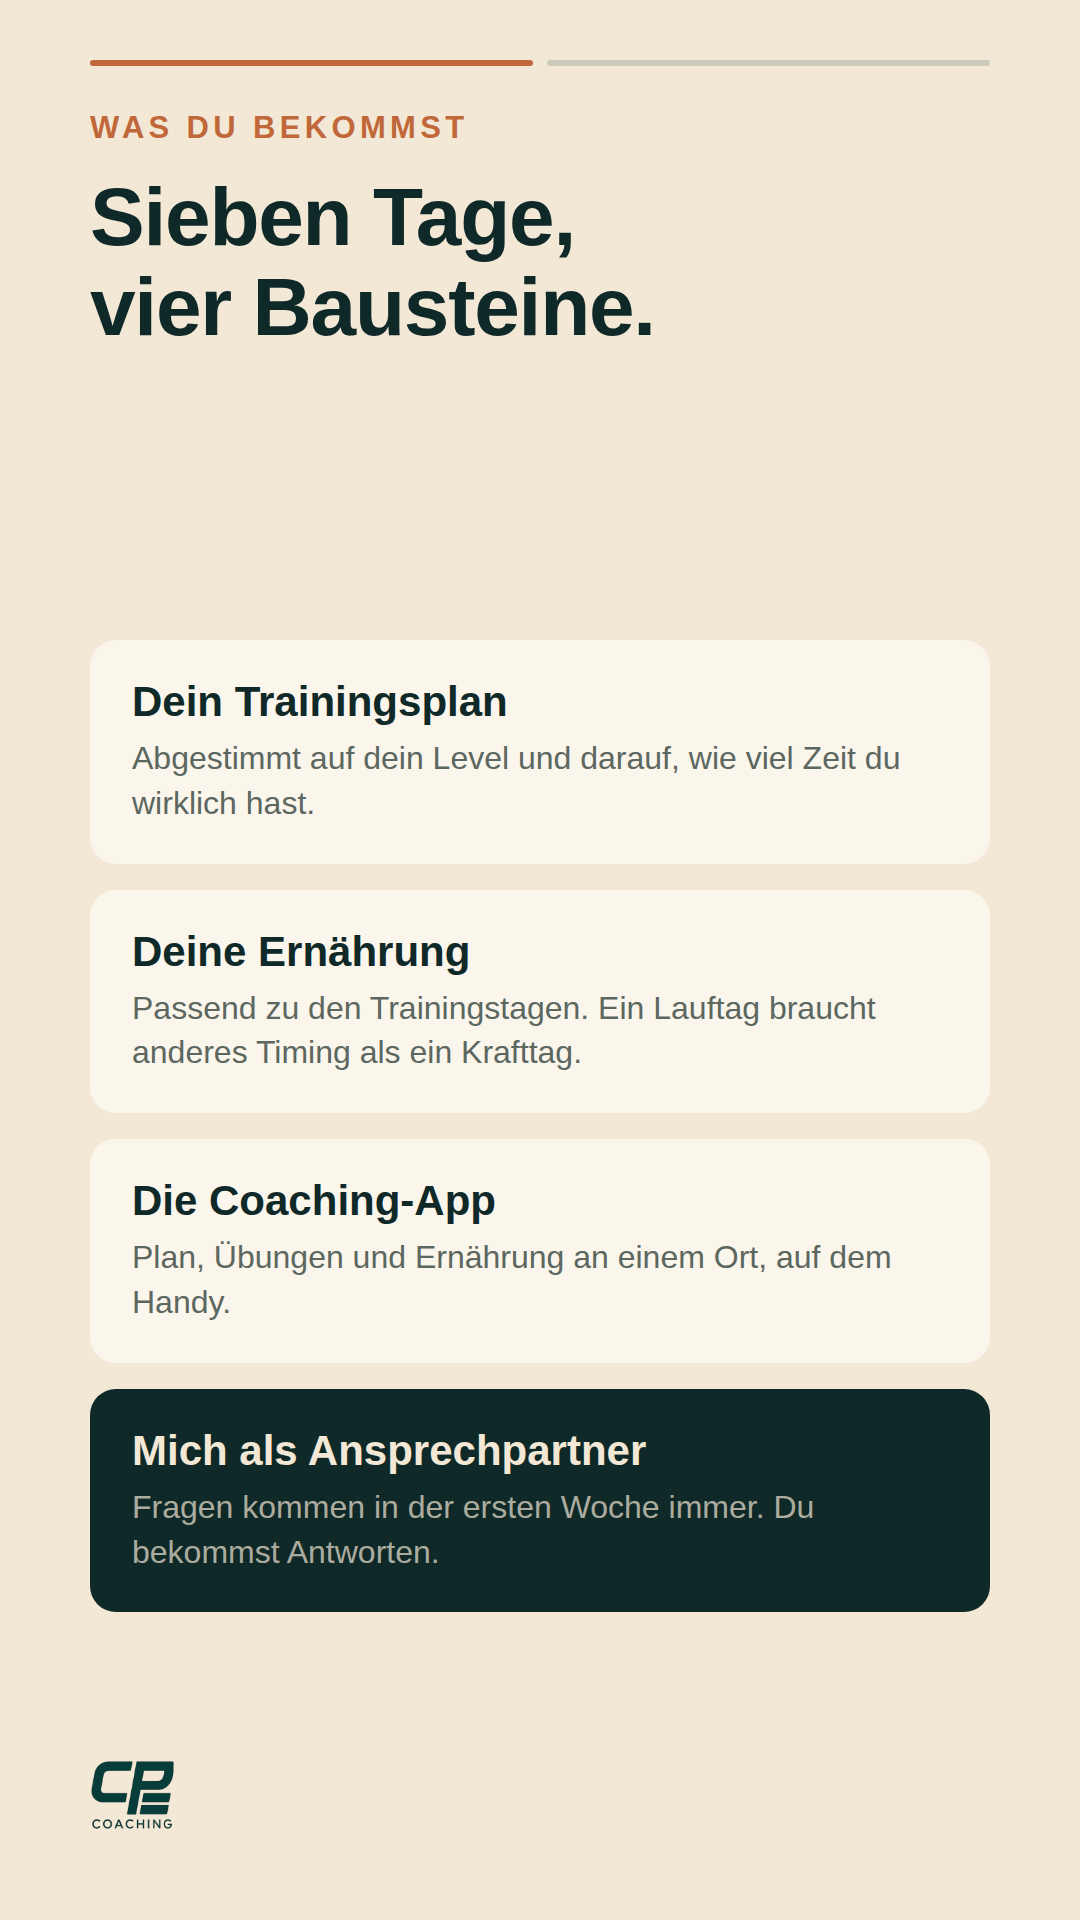
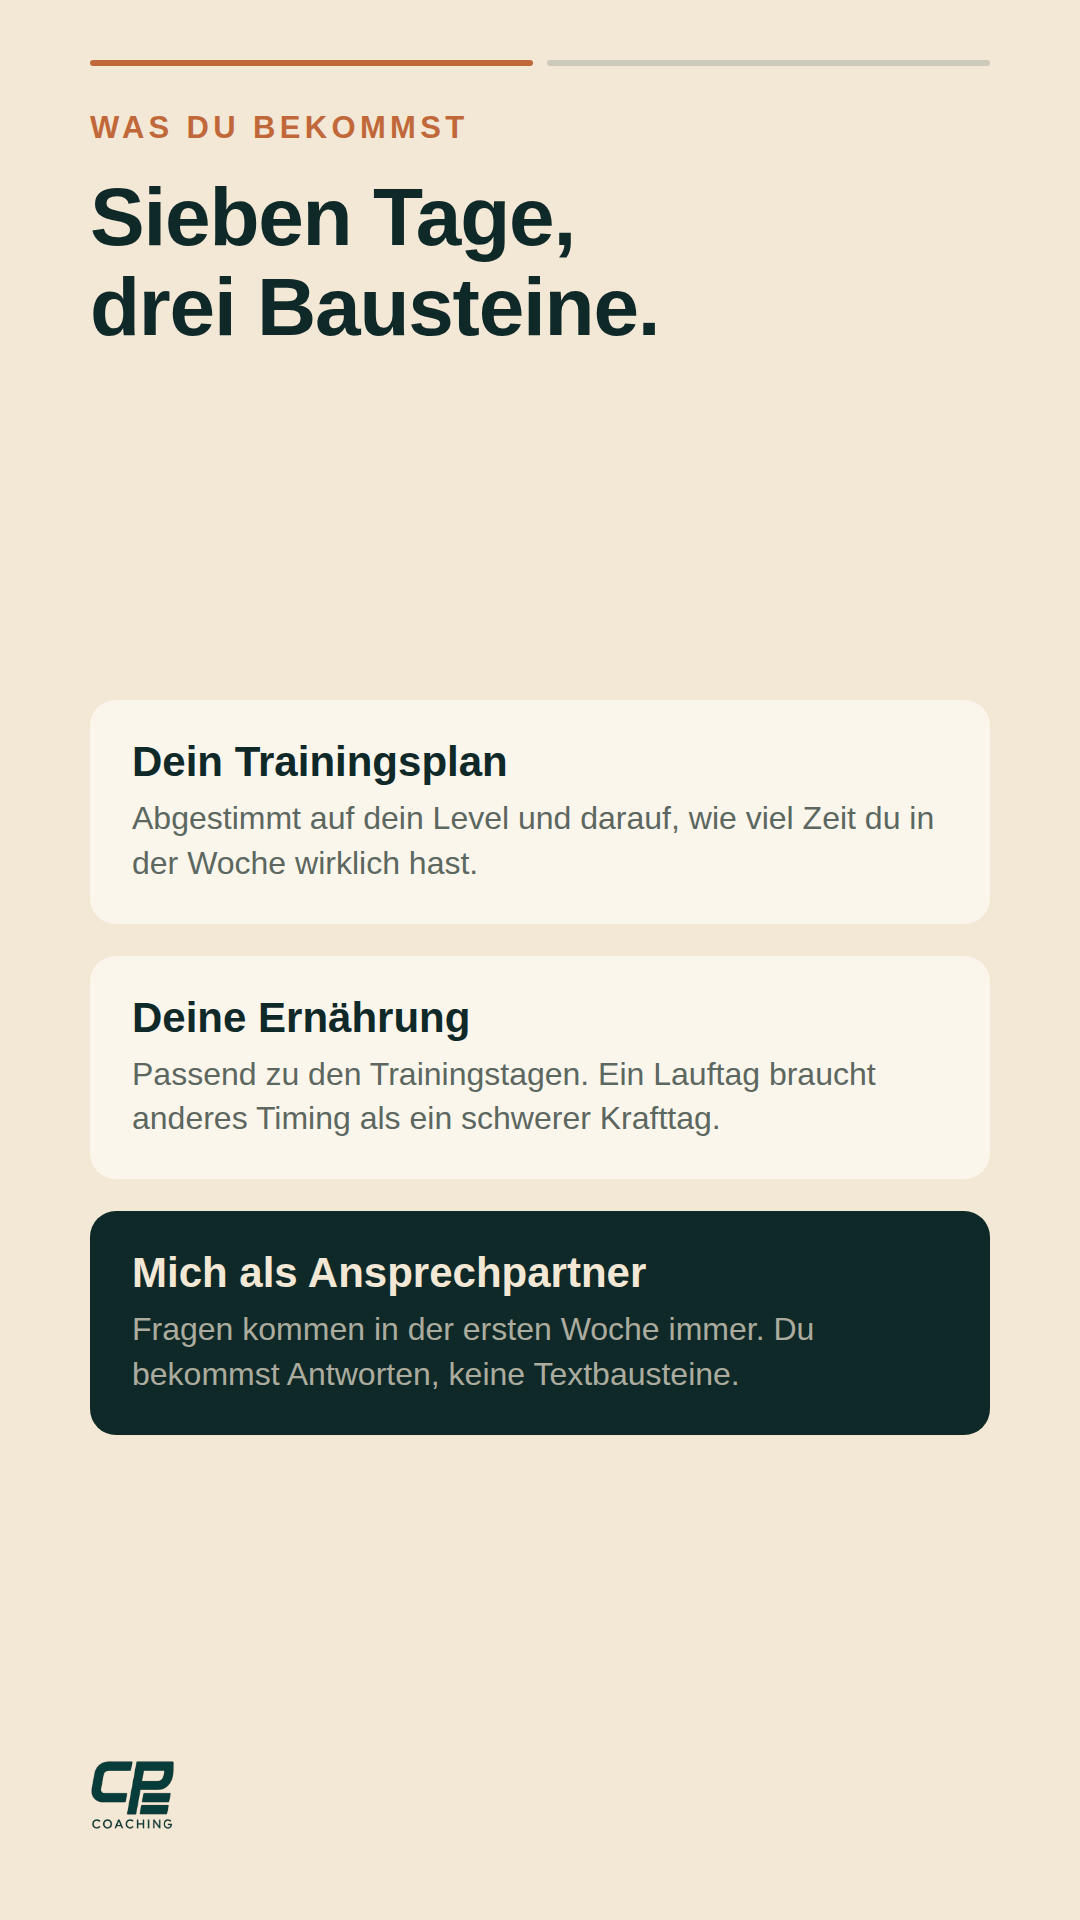
Testwoche-Kachel korrigiert, App gehoert nicht zur Gratiswoche

Changed region(s): [[0.0611, 0.3438, 0.9167, 0.8438], [0.275, 0.1562, 0.6111, 0.1875], [0.0917, 0.125, 0.2139, 0.1875]]

diff --git a/content/Instagram_Highlights/Testwoche/anleitung.md b/content/Instagram_Highlights/Testwoche/anleitung.md
@@ -7,7 +7,7 @@ Vier Story-Bilder plus Cover, 1080 mal 1920. Ersetzt das alte Highlight „Free 
 | Datei | Inhalt | Zweck |
 |---|---|---|
 | `s1.png` | Sieben Tage. Komplett kostenlos. | Der Aufhänger. Sagt in drei Zeilen, worum es geht. |
-| `s2.png` | Sieben Tage, vier Bausteine | Was drin ist: Trainingsplan, Ernährung, App, Betreuung. |
+| `s2.png` | Sieben Tage, drei Bausteine | Was drin ist: Trainingsplan, Ernährung, Betreuung. |
 | `s3.png` | Kein Haken. Wirklich keiner. | Räumt die Zweifel ab, bevor sie entstehen. |
 | `s4.png` | Antworte mit „TESTWOCHE" | Der Handlungsaufruf. |
 | `cover-icon.png` | 7 Tage | Titelbild des Highlights. |
@@ -24,6 +24,10 @@ Vier Story-Bilder plus Cover, 1080 mal 1920. Ersetzt das alte Highlight „Free 
 ## Warum Folie 3 wichtig ist
 
 Bei einem kostenlosen Angebot ist die erste Reaktion Misstrauen: Wo ist der Haken, werde ich danach abgebucht, muss ich meine Kartendaten angeben. Folie 3 beantwortet genau diese drei Fragen, bevor sie jemand stellt. Ohne sie klicken Leute weg, statt zu fragen.
+
+## Was die Testwoche nicht enthält
+
+**Die Coaching-App ist nicht dabei.** Sie gehört zu den bezahlten Paketen. Auf keiner Kachel wird sie erwähnt, und das soll auch so bleiben. Wenn im Gespräch danach gefragt wird, ist das ein gutes Zeichen: dann ist die App ein Grund zu buchen, kein enttäuschter Erwartungswert.
 
 ## Wenn du das Angebot begrenzt
 
